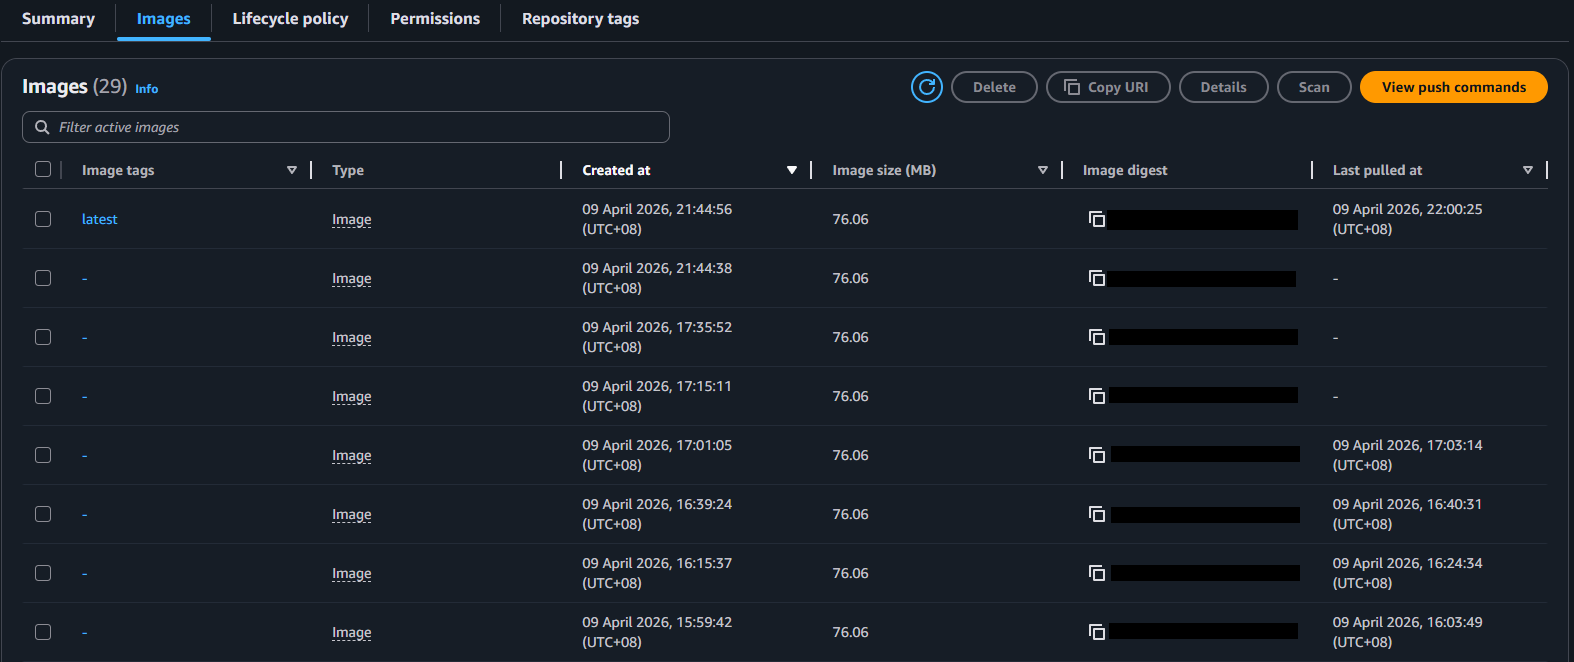
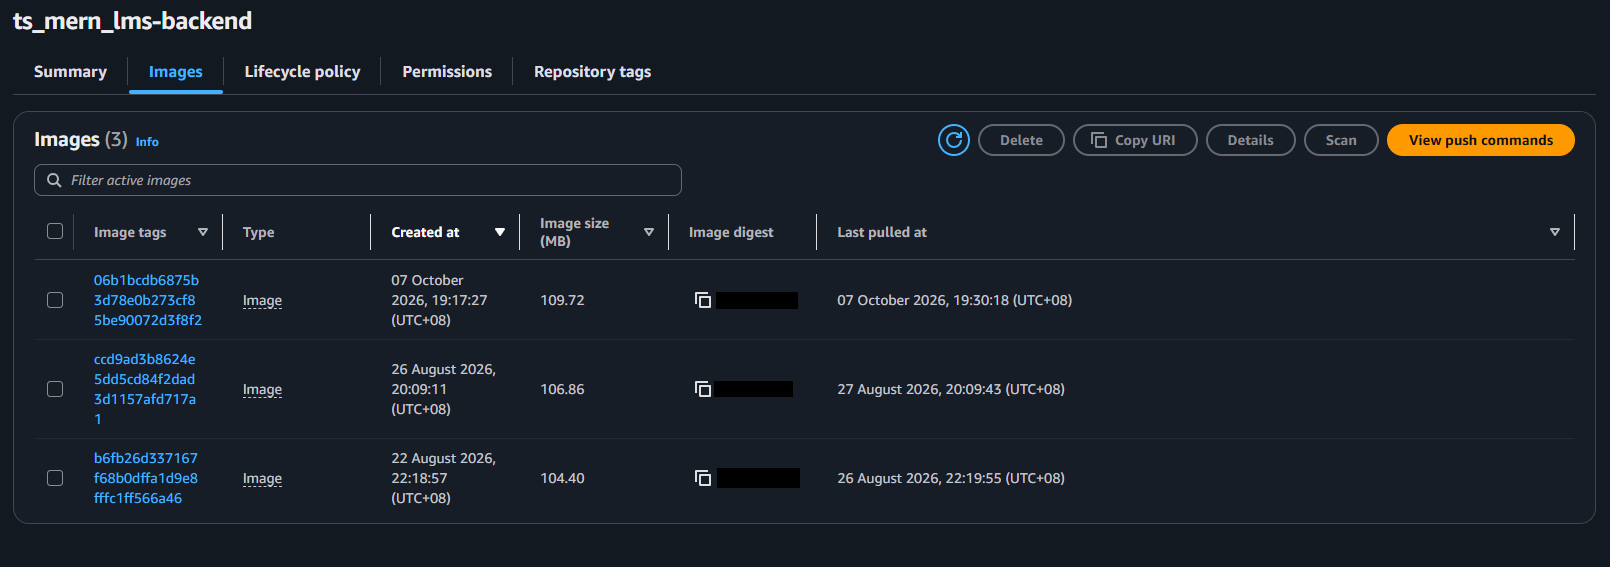
Readme: Improve the ci-cd.md format and description

diff --git a/doc/Documentation/technical/ci-cd.md b/doc/Documentation/technical/ci-cd.md
@@ -100,14 +100,15 @@ Image 1 - CI/CD process overview<br>
 
 		
 
-    - **Security And Operational Excellence**
-        - **Zero-Credential Exposure**
-            - Ensure the source code does not have private data, and fulfil the OWASP standard
-        - **Automated Lifecycle**
-            - Reduce the deployment mistakes on manual trigger with GitHub Actions
+- **Security And Operational Excellence**
+    - **Zero-Credential Exposure**
+        - Ensure the source code does not have private data, and fulfil the OWASP standard
+
+    - **Automated Lifecycle**
+        - Reduce the deployment mistakes on manual trigger with GitHub Actions
 
             
-- **Changes**
+- **Iteration Description**
     - **Production Environment Realignment**
         - Migrated BACKEND_BASE_URL and BASE_URL from localhost to production endpoints (Vercel / AWS API Gateway)<br>
           (Ensured seamless communication between decoupled frontend and backend services in a live cloud environment)
@@ -119,6 +120,12 @@ Image 1 - CI/CD process overview<br>
     - **Immutable Artefact Deployment**
         - CI pipeline builds and pushes Docker images to AWS ECR, capturing image digest as output<br>
           (Ensures CD stage updates Lambda using tested artefacts instead of latest tags, guaranteeing reproducibility and reducing regression risk)
+
+    - **Security & IAM Best Practices**
+        - Transitioned CI/CD authentication from long‑lived IAM User keys to short‑lived OIDC AssumeRole
+        - Separated CI/CD Role (ECR push + Lambda update) from Lambda Execution Role (S3/CloudWatch access)
+        - Enforced the least‑privilege principle<br>
+          (Reduced credential leakage risk and aligned with AWS recommended practices)
 
 
 ### Remarks
